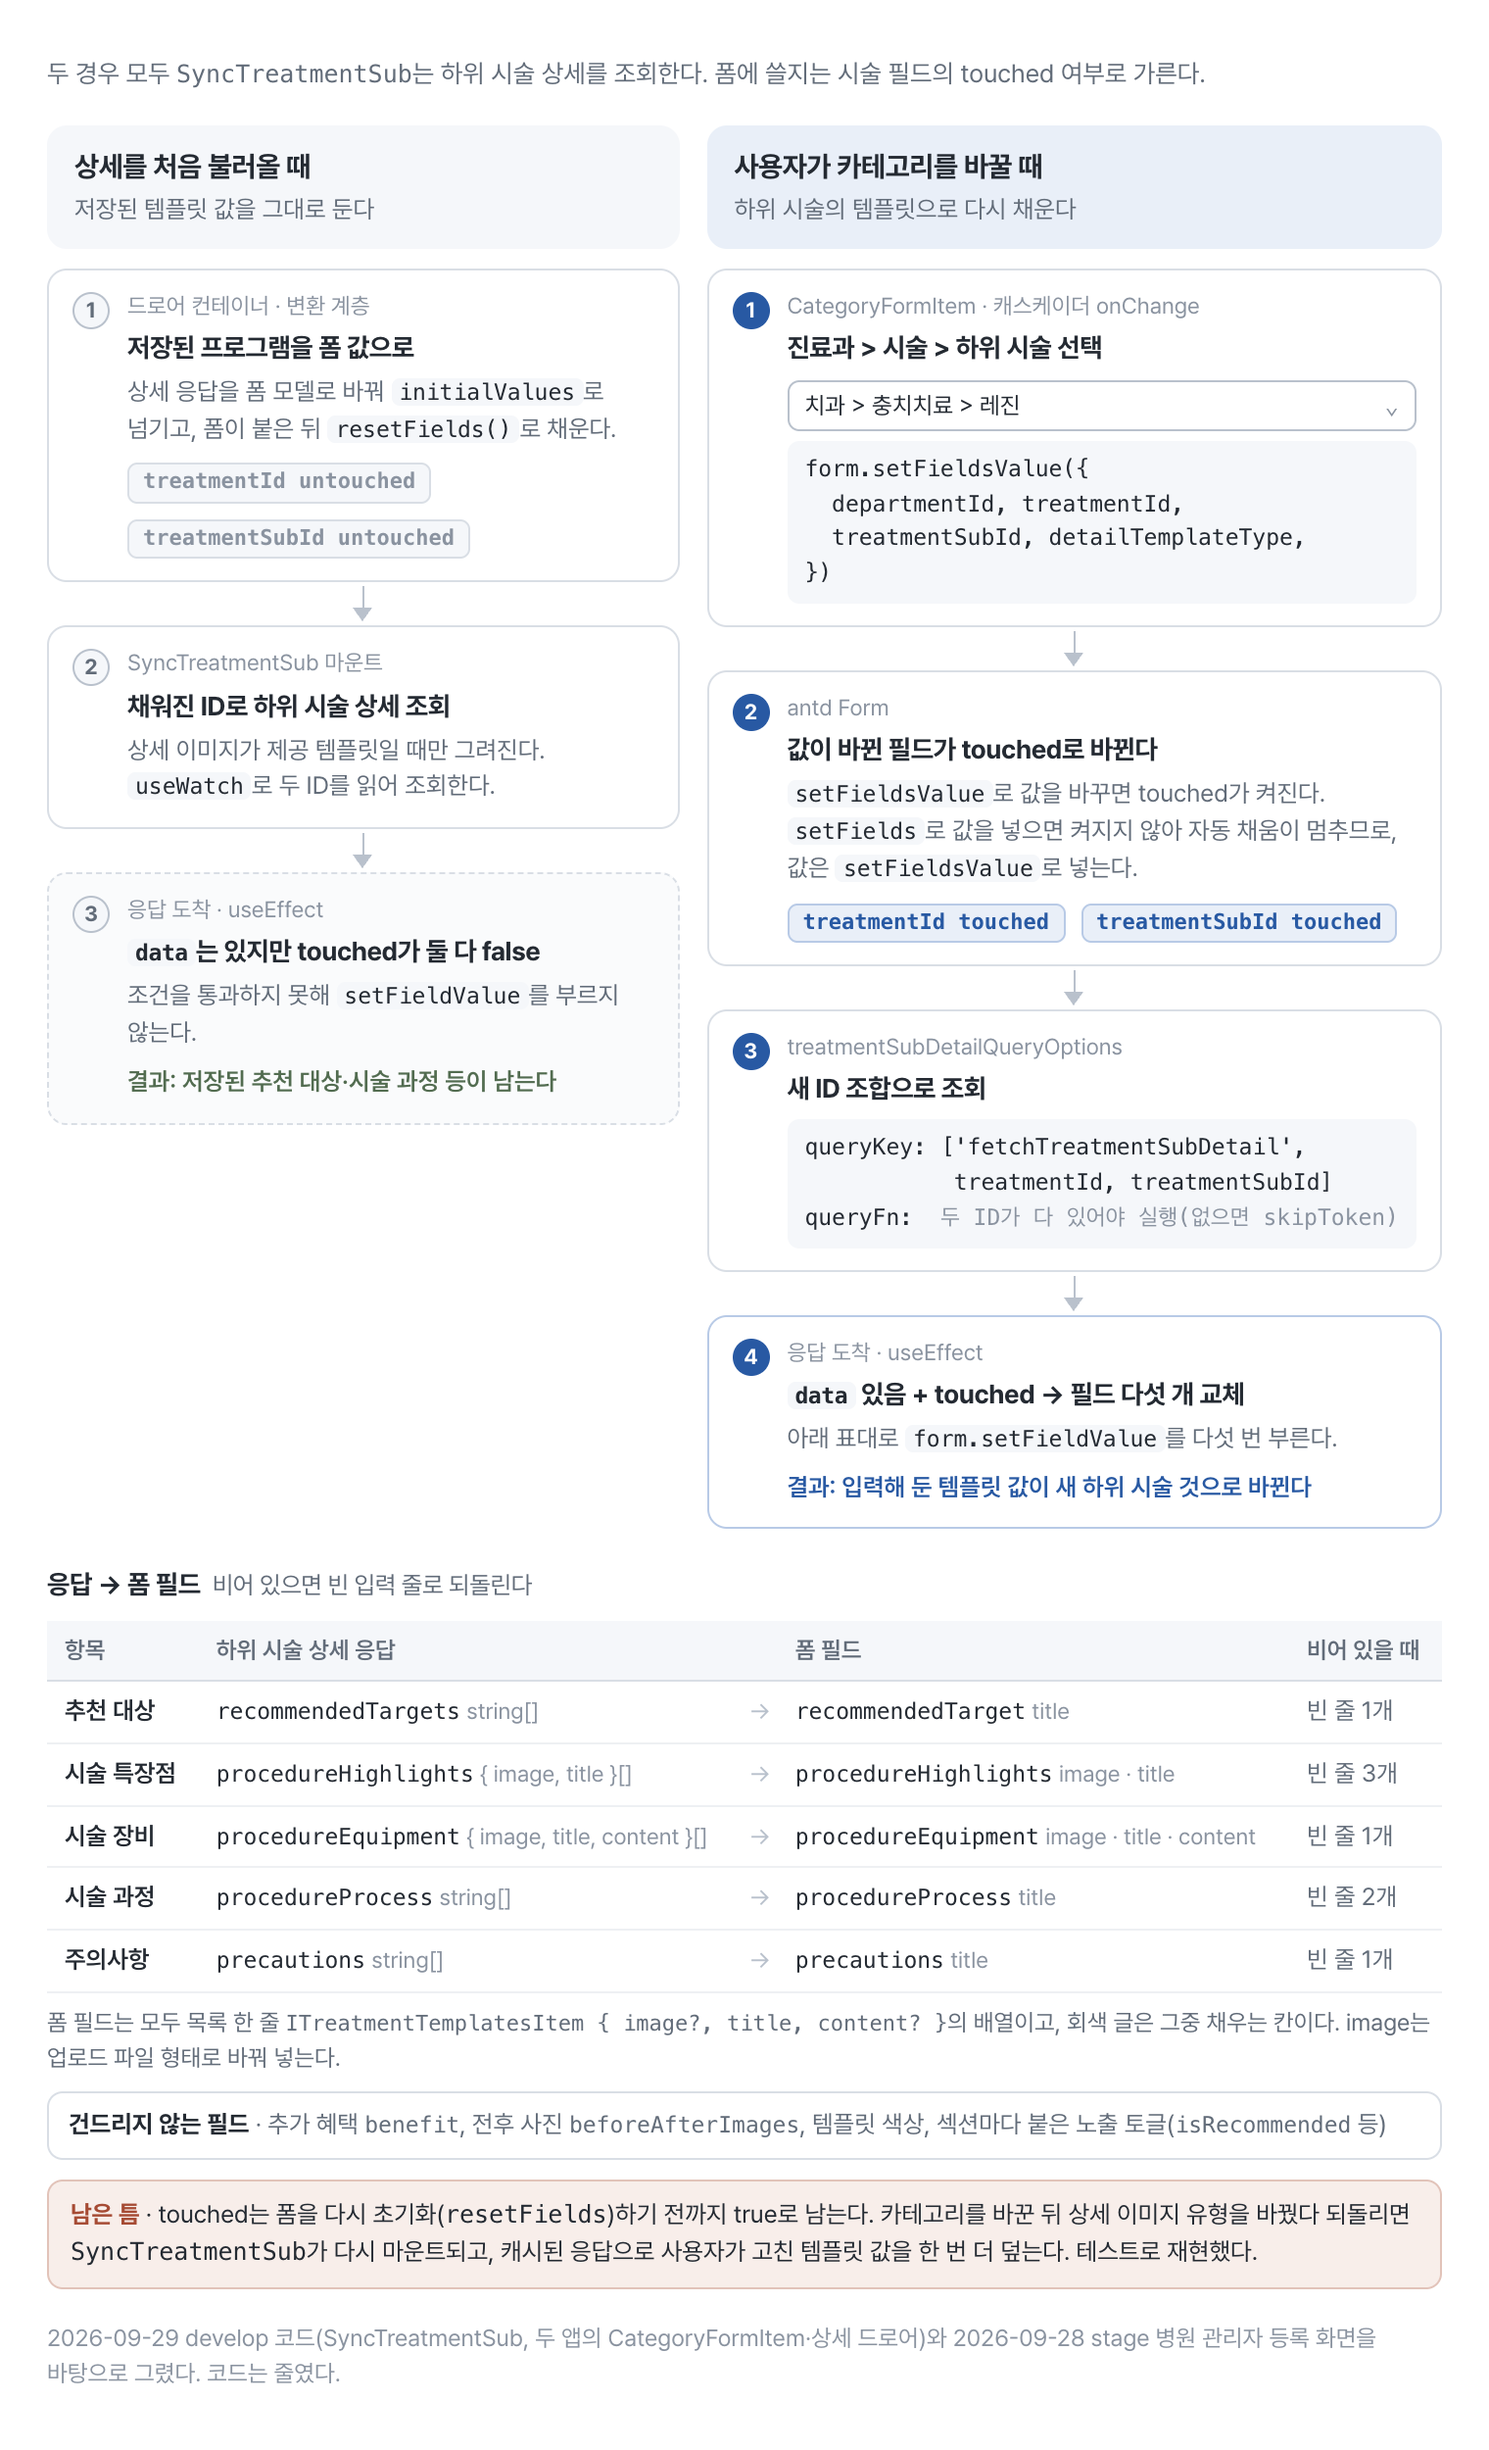
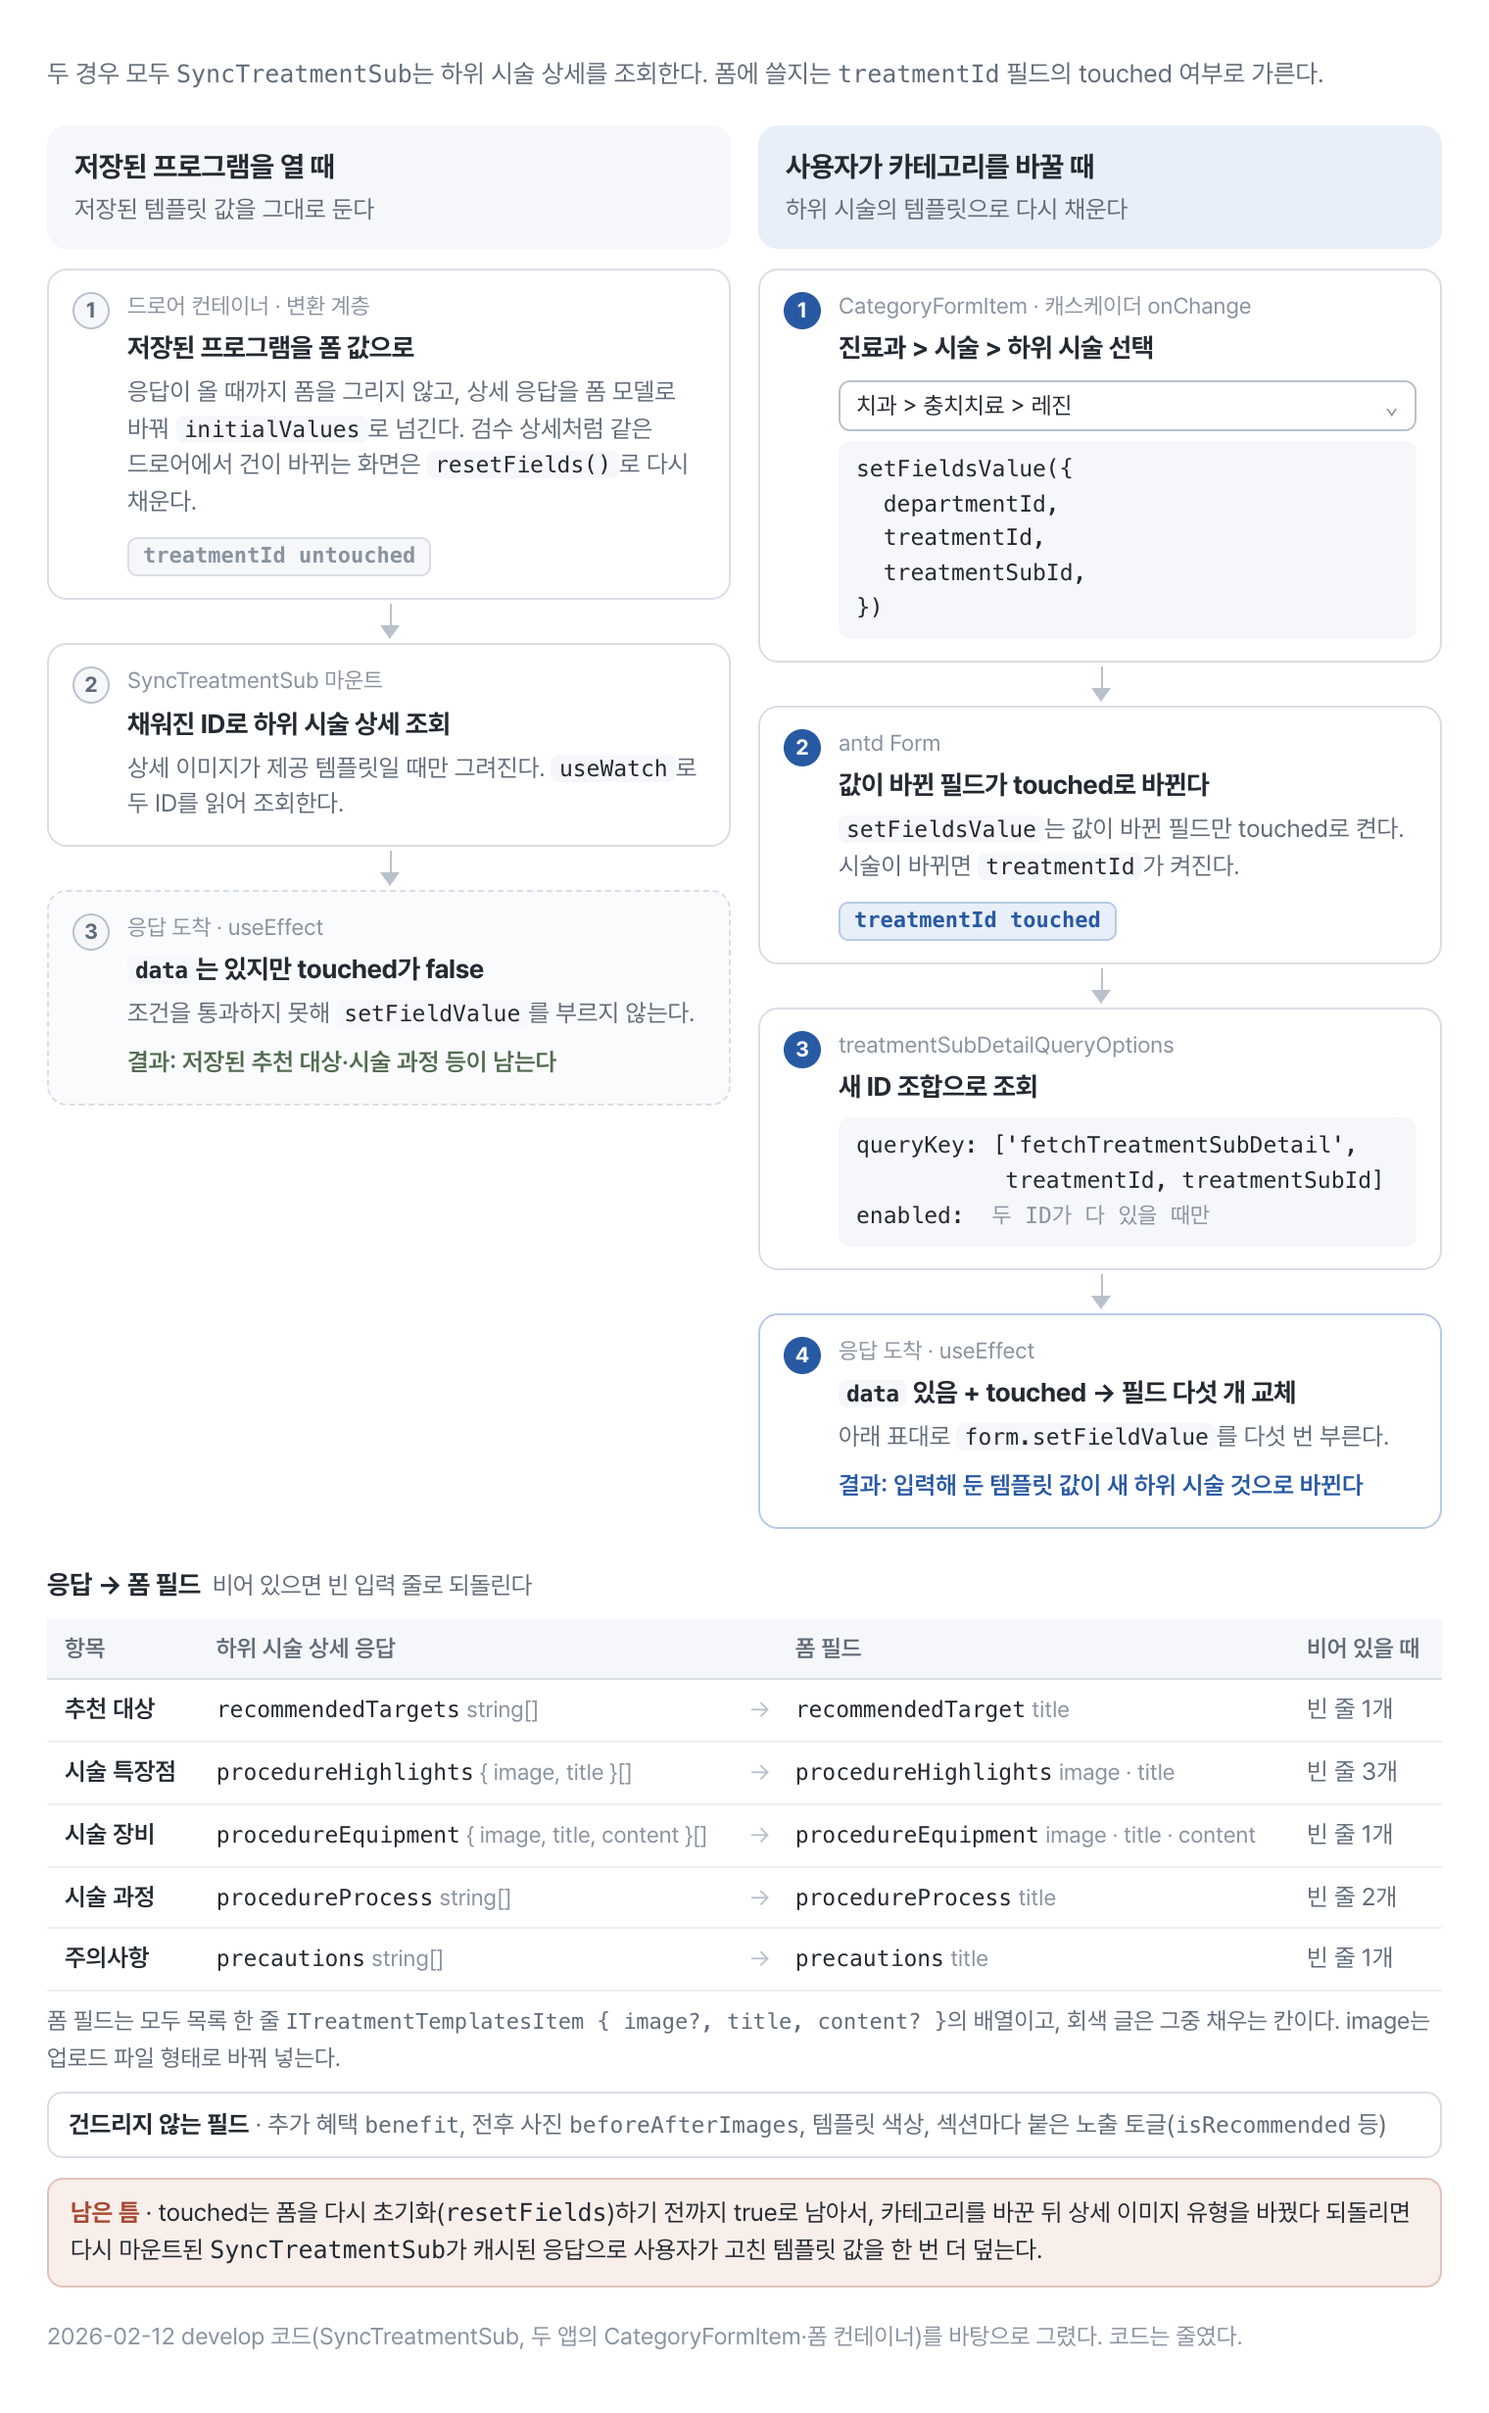
docs(blog): 하위 시술 동기화 그림을 당시 treatmentId touched 조건·enabled 로 맞춘다

diff --git a/blog/assets/figures/program-form/src/04-treatment-sync.html b/blog/assets/figures/program-form/src/04-treatment-sync.html
@@ -47,18 +47,18 @@
 </style></head>
 <body>
 
-<p class="caption-top">두 경우 모두 <code>SyncTreatmentSub</code>는 하위 시술 상세를 조회한다. 폼에 쓸지는 시술 필드의 touched 여부로 가른다.</p>
+<p class="caption-top">두 경우 모두 <code>SyncTreatmentSub</code>는 하위 시술 상세를 조회한다. 폼에 쓸지는 <code>treatmentId</code> 필드의 touched 여부로 가른다.</p>
 
 <div class="lanes">
   <div>
-    <div class="lane-head"><b>상세를 처음 불러올 때</b><span>저장된 템플릿 값을 그대로 둔다</span></div>
+    <div class="lane-head"><b>저장된 프로그램을 열 때</b><span>저장된 템플릿 값을 그대로 둔다</span></div>
 
     <div class="step">
       <span class="n">1</span>
       <div class="who">드로어 컨테이너 · 변환 계층</div>
       <b>저장된 프로그램을 폼 값으로</b>
-      <p>상세 응답을 폼 모델로 바꿔 <code>initialValues</code>로 넘기고, 폼이 붙은 뒤 <code>resetFields()</code>로 채운다.</p>
-      <div class="touch"><span class="state mute">treatmentId untouched</span><span class="state mute">treatmentSubId untouched</span></div>
+      <p>응답이 올 때까지 폼을 그리지 않고, 상세 응답을 폼 모델로 바꿔 <code>initialValues</code>로 넘긴다. 검수 상세처럼 같은 드로어에서 건이 바뀌는 화면은 <code>resetFields()</code>로 다시 채운다.</p>
+      <div class="touch"><span class="state mute">treatmentId untouched</span></div>
     </div>
     <div class="arrow-down"></div>
 
@@ -73,7 +73,7 @@
     <div class="step skip">
       <span class="n">3</span>
       <div class="who">응답 도착 · useEffect</div>
-      <b><code>data</code>는 있지만 touched가 둘 다 false</b>
+      <b><code>data</code>는 있지만 touched가 false</b>
       <p>조건을 통과하지 못해 <code>setFieldValue</code>를 부르지 않는다.</p>
       <div class="result keep">결과: 저장된 추천 대상·시술 과정 등이 남는다</div>
     </div>
@@ -87,9 +87,10 @@
       <div class="who">CategoryFormItem · 캐스케이더 onChange</div>
       <b>진료과 &gt; 시술 &gt; 하위 시술 선택</b>
       <div class="cascader">치과 &gt; 충치치료 &gt; 레진<span>⌄</span></div>
-      <pre>form.setFieldsValue({
-  departmentId, treatmentId,
-  treatmentSubId, detailTemplateType,
+      <pre>setFieldsValue({
+  departmentId,
+  treatmentId,
+  treatmentSubId,
 })</pre>
     </div>
     <div class="arrow-down"></div>
@@ -98,8 +99,8 @@
       <span class="n">2</span>
       <div class="who">antd Form</div>
       <b>값이 바뀐 필드가 touched로 바뀐다</b>
-      <p><code>setFieldsValue</code>로 값을 바꾸면 touched가 켜진다. <code>setFields</code>로 값을 넣으면 켜지지 않아 자동 채움이 멈추므로, 값은 <code>setFieldsValue</code>로 넣는다.</p>
-      <div class="touch"><span class="state req">treatmentId touched</span><span class="state req">treatmentSubId touched</span></div>
+      <p><code>setFieldsValue</code>는 값이 바뀐 필드만 touched로 켠다. 시술이 바뀌면 <code>treatmentId</code>가 켜진다.</p>
+      <div class="touch"><span class="state req">treatmentId touched</span></div>
     </div>
     <div class="arrow-down"></div>
 
@@ -109,7 +110,7 @@
       <b>새 ID 조합으로 조회</b>
       <pre>queryKey: ['fetchTreatmentSubDetail',
            treatmentId, treatmentSubId]
-queryFn:  <span class="c">두 ID가 다 있어야 실행(없으면 skipToken)</span></pre>
+enabled:  <span class="c">두 ID가 다 있을 때만</span></pre>
     </div>
     <div class="arrow-down"></div>
 
@@ -135,7 +136,7 @@ queryFn:  <span class="c">두 ID가 다 있어야 실행(없으면 skipToken)</s
 <p class="tnote">폼 필드는 모두 목록 한 줄 <code>ITreatmentTemplatesItem { image?, title, content? }</code>의 배열이고, 회색 글은 그중 채우는 칸이다. image는 업로드 파일 형태로 바꿔 넣는다.</p>
 <div class="keep-row"><b>건드리지 않는 필드</b> · 추가 혜택 <code>benefit</code>, 전후 사진 <code>beforeAfterImages</code>, 템플릿 색상, 섹션마다 붙은 노출 토글(<code>isRecommended</code> 등)</div>
 
-<div class="gap"><b>남은 틈</b> · touched는 폼을 다시 초기화(<code>resetFields</code>)하기 전까지 true로 남는다. 카테고리를 바꾼 뒤 상세 이미지 유형을 바꿨다 되돌리면 <code>SyncTreatmentSub</code>가 다시 마운트되고, 캐시된 응답으로 사용자가 고친 템플릿 값을 한 번 더 덮는다. 테스트로 재현했다.</div>
+<div class="gap"><b>남은 틈</b> · touched는 폼을 다시 초기화(<code>resetFields</code>)하기 전까지 true로 남아서, 카테고리를 바꾼 뒤 상세 이미지 유형을 바꿨다 되돌리면 다시 마운트된 <code>SyncTreatmentSub</code>가 캐시된 응답으로 사용자가 고친 템플릿 값을 한 번 더 덮는다.</div>
 
-<p class="foot">2026-09-29 develop 코드(SyncTreatmentSub, 두 앱의 CategoryFormItem·상세 드로어)와 2026-09-28 stage 병원 관리자 등록 화면을 바탕으로 그렸다. 코드는 줄였다.</p>
+<p class="foot">2026-02-12 develop 코드(SyncTreatmentSub, 두 앱의 CategoryFormItem·폼 컨테이너)를 바탕으로 그렸다. 코드는 줄였다.</p>
 </body></html>
